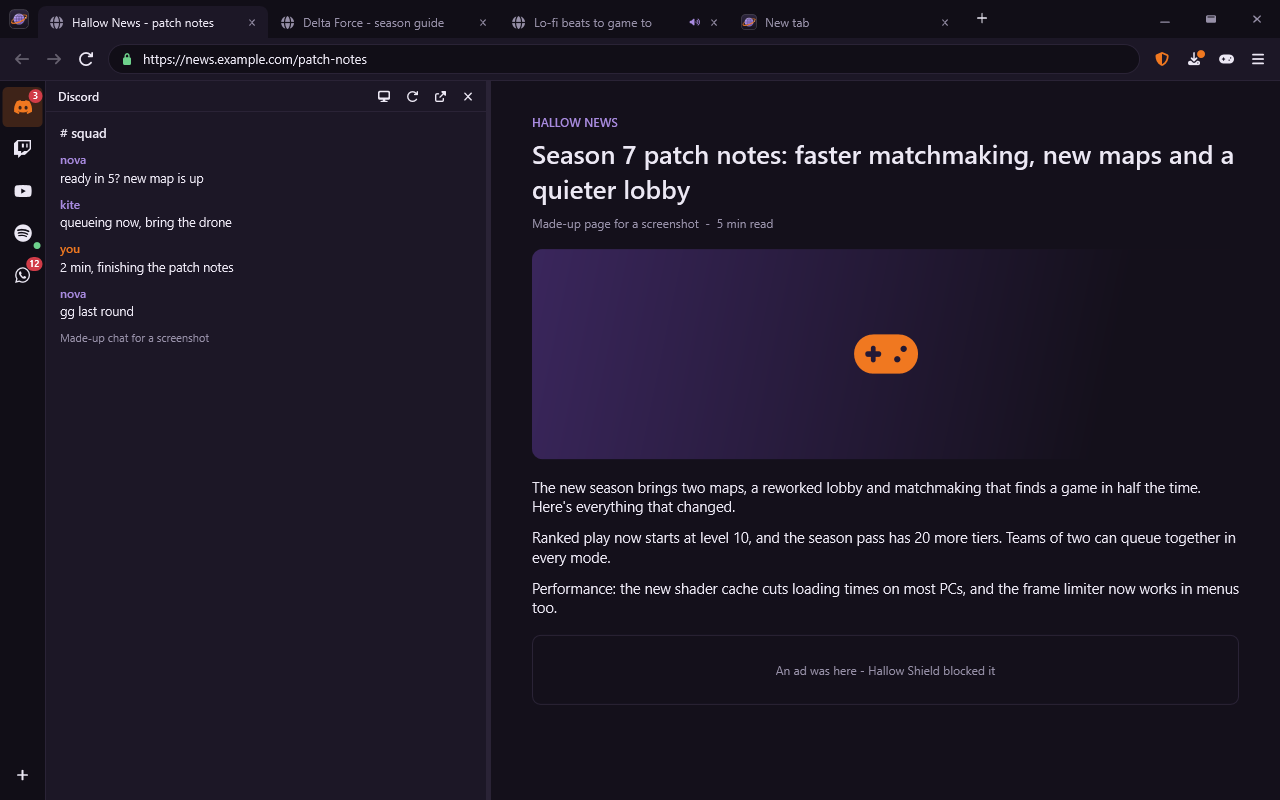
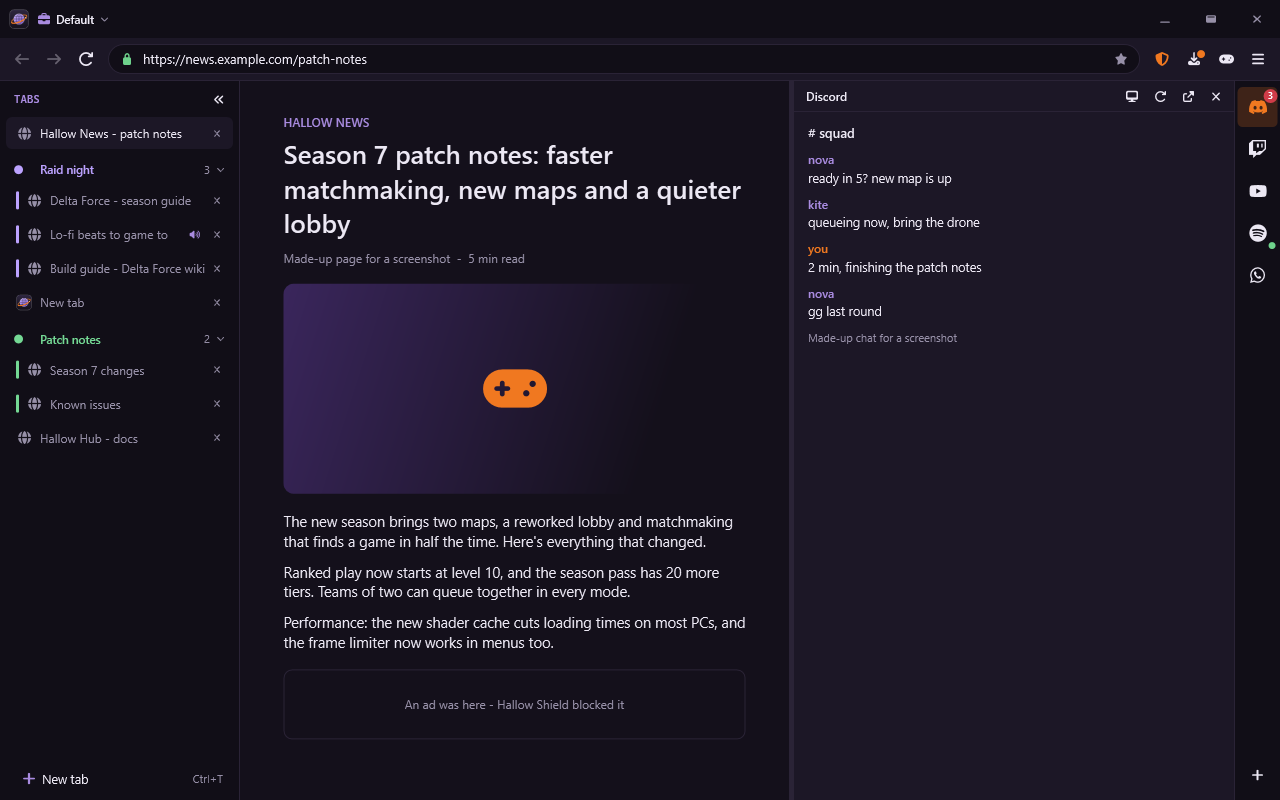
Hallow Browser card: 1.2 - vertical tabs, groups, workspaces, Ctrl+K, split view, screenshots, reader

diff --git a/index.html b/index.html
@@ -210,17 +210,17 @@
         <h3><b>HALLOW</b> BROWSER</h3>
         <div class="what">A fast Chromium browser for gamers, with Hallow Shield built in</div>
         <ul>
-          <li>New in 1.1: a gamer sidebar - Discord, Twitch, YouTube, Spotify, WhatsApp or any site, signed in beside the page (Ctrl+Shift+S)</li>
-          <li>Twitch and YouTube live alerts for channels you follow, a Hot tabs list by CPU and memory, and a per-tab bandwidth cap while you play</li>
+          <li>New in 1.2: vertical tabs, coloured tab groups you can fold away or put to sleep, and workspaces ("Gaming", "Work") with their own tabs on the same sign-ins</li>
+          <li>Ctrl+K finds any open tab, page from your history, bookmark, command or setting; split view, screenshots (even the whole page) and reader mode</li>
+          <li>A gamer sidebar - Discord, Twitch, YouTube, Spotify, WhatsApp or any site, signed in beside the page - plus live alerts and a Hot tabs list</li>
           <li>Hallow Shield always on: ads, trackers and cookie banners blocked by the browser itself - set it per site in its panel</li>
           <li>Game mode: while you play, background tabs and hidden panels sleep (anything playing music stays awake)</li>
           <li>Fast: the window is up in about half a second and new tabs open in well under 100 ms on our test PC</li>
-          <li>Hallow Keys fills your logins when you click the key; light and dark mode follow your Hallow look</li>
-          <li>Third-party cookies blocked and Global Privacy Control on; it never makes itself your default browser</li>
+          <li>Hallow Keys fills your logins when you click; light and dark mode; third-party cookies blocked; never makes itself your default browser</li>
         </ul>
         <div class="links"><a href="https://github.com/Dom428/hallow-browser/releases/latest">Download</a><a href="https://github.com/Dom428/hallow-browser">More</a></div>
       </div>
-      <div class="shot"><img src="img/browser.png" alt="Hallow Browser 1.1: the sidebar with a made-up Discord chat beside a game news page (made-up page)" loading="lazy"></div>
+      <div class="shot"><img src="img/browser.png" alt="Hallow Browser 1.2: vertical tabs with two tab groups and the Discord panel beside a game news page (made-up pages)" loading="lazy"></div>
     </div>
     <div class="app">
       <div>
